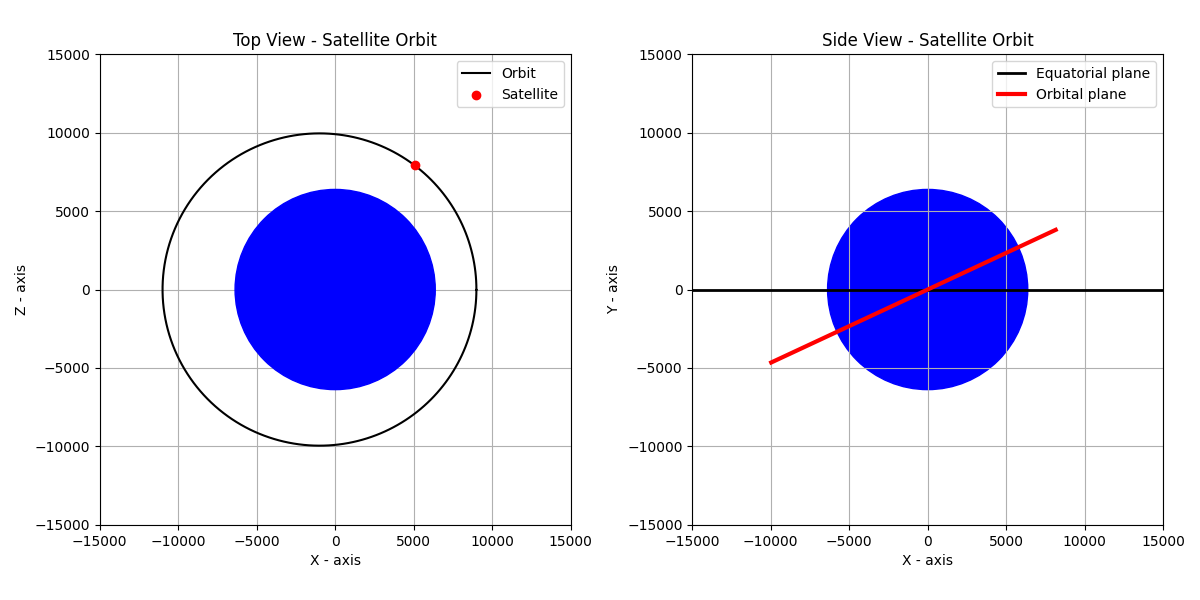
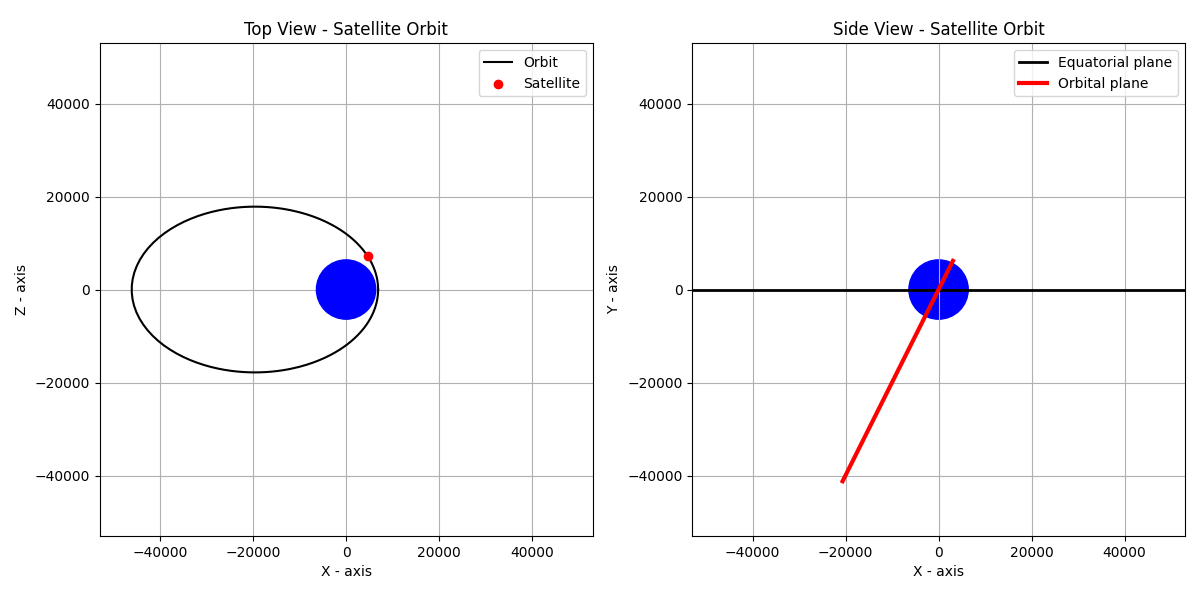
added simplified parameter and presets

diff --git a/main.py b/main.py
@@ -9,19 +9,69 @@ if os.path.exists("orbit_plot.png"):
     os.remove("orbit_plot.png")
 
 st.title('Orbit Visualizer')
+st.write("Visualize satellite orbits around Earth with dual-view plots and animations. Either enter custom parameters or select from presets to quickly generate the orbit plots.")
 
 #taking user input for semi major axis, eccentricity, True anomaly and inclination
-st.sidebar.header('Input Keplerian Parameters')
-semi_major_axis = st.sidebar.number_input('Semi Major Axis (in km)', min_value=7000, max_value=1000000, value=10000)
-eccentricity = st.sidebar.number_input('Eccentricity', min_value=0.0, max_value=1.0, value=0.1)
-true_anomaly = st.sidebar.number_input('True Anomaly (in radians)', min_value=0.0, max_value=6.28, value=1.0)
-inclination = st.sidebar.number_input('Inclination (in degrees)', min_value=0.0, max_value=360.0, value=25.0)
+
+mode = st.sidebar.toggle("Switch Paramter Type")
+
+# Default to Keplerian parameters
+if not mode:
+    st.sidebar.header('Input simplified Parameters')
+    apogee = float(st.sidebar.number_input('Apogee from sea level (in km)', min_value=0, max_value=1000000, value=500)) + 6378  # Adding Earth's radius
+    perigee = float(st.sidebar.number_input('Perigee from sea level (in km)', min_value=0, max_value=1000000, value=500)) + 6378  # Adding Earth's radius
+    inclination = float(st.sidebar.number_input('Inclination (in degrees)', min_value=0.0, max_value=360.0, value=25.0))
+    # Convert simplified parameters to Keplerian elements
+    semi_major_axis = (apogee + perigee) / 2
+    eccentricity = (apogee - perigee) / (apogee + perigee)
+    true_anomaly = 1  # Default value
+    inclination = float(inclination)
+else:
+    # Default: Keplerian parameters (shows by default or when button 'a' is clicked)
+    st.sidebar.header('Input Keplerian Parameters')
+    semi_major_axis = float(st.sidebar.number_input('Semi Major Axis (in km)', min_value=7000, max_value=1000000, value=10000))
+    eccentricity = float(st.sidebar.number_input('Eccentricity', min_value=0.0, max_value=1.0, value=0.1))
+    true_anomaly = float(st.sidebar.number_input('True Anomaly (in radians)', min_value=0.0, max_value=6.28, value=1.0))
+    inclination = float(st.sidebar.number_input('Inclination (in degrees)', min_value=0.0, max_value=360.0, value=25.0))
 
 
-semi_major_axis = float(semi_major_axis)
-eccentricity = float(eccentricity)
-true_anomaly = float(true_anomaly)
-inclination = float(inclination)
+preset = st.sidebar.selectbox("Presets", options=["None","ISS", "SSO", "GEO", "GSO", "Molniya", "Tundra", "MEO", "Moon"], index=0, key="view_option")
+
+if preset == "None":
+    pass
+elif preset == "ISS":
+    semi_major_axis = 6780  # km
+    eccentricity = 0.0007
+    inclination = 51.6  # degrees
+elif preset == "SSO":
+    semi_major_axis = 7078  # km
+    eccentricity = 0.0001
+    inclination = 98.7  # degrees
+elif preset == "GEO":
+    semi_major_axis = 42164  # km
+    eccentricity = 0.0001
+    inclination = 0.0  # degrees
+elif preset == "GSO":
+    semi_major_axis = 42164
+    eccentricity = 0.0001
+    inclination = 0.0
+elif preset == "Molniya":
+    semi_major_axis = 26500
+    eccentricity = 0.74
+    inclination = 63.4
+elif preset == "Tundra":
+    semi_major_axis = 42164
+    eccentricity = 0.1
+    inclination = 63.4
+elif preset == "MEO":
+    semi_major_axis = 20000
+    eccentricity = 0.1
+    inclination = 55.0
+elif preset == "Moon":
+    semi_major_axis = 384400
+    eccentricity = 0.0549
+    inclination = 5.145
+
 fig = op.plot_orbit(semi_major_axis, eccentricity, true_anomaly, inclination)
 
 #button to plot animated orbit
@@ -50,6 +100,7 @@ else:
     #Show static plot by default
     if os.path.exists("orbit_plot.png"):
         st.image("orbit_plot.png", caption='Static Orbit Plot')
+
 
 
 st.write("### Orbit Parameters")

diff --git a/README.md b/README.md
@@ -4,14 +4,34 @@ Python tool for visualizing satellite orbits around Earth with dual-view plots a
 
 🚀 **[Try the live web app here!](https://orbit-visualizer-cuiqjpnmqbgzducbrmjdfm.streamlit.app/)**
 
+## Screenshots
+
+### Static Visualization
+![Static Orbit Plot](Screenshots/Screenshot%202025-07-21%20004231.png)
+*Dual-view orbital visualization showing top and side perspectives*
+
+### Animated Visualization  
+![Animation Example](Screenshots/Screenshot%202025-07-21%20004620.png)
+*Real-time animated orbit with true anomaly counter*
+
+### Parameter Input Options
+![Parameter Interface](Screenshots/Screenshot%202025-07-21%20004648.png)
+*Toggle between Keplerian and simplified parameters*
+
+### Orbital Presets
+![Preset Options](Screenshots/Screenshot%202025-07-21%20004707.png)
+*Quick access to common orbital configurations*
+
 ## Features
 
-- Interactive orbital parameter input (semi-major axis, eccentricity, true anomaly, inclination)
+- **Dual Parameter Input Modes**:
+  - Keplerian parameters (semi-major axis, eccentricity, true anomaly, inclination)
+  - Simplified parameters (apogee/perigee heights from sea level)
+- **Orbital Presets**: ISS, Sun-Synchronous, GEO, Molniya, Tundra, MEO, Moon orbit
 - **Static plots**: Top view orbital path and side view inclination visualization
-- **Animated GIF**: Real-time satellite motion with true anomaly counter
-- Real-time satellite position display with orbital parameters
-- Earth representation with realistic radius (6378 km)
-- Apogee and perigee distance calculations
+- **Animated GIF**: Real-time satellite motion with true anomaly and distance display
+- **Real-time calculations**: Apogee and perigee distances
+- **Earth representation**: Realistic radius (6378 km) and visual scaling
 
 ## Installation
 
@@ -21,7 +41,7 @@ pip install numpy matplotlib streamlit
 
 ## Usage
 
-**Web App**: [Live Streamlit app](https://orbit-visualizer-gznudmagi3xloqsz6boyfp.streamlit.app/) - No installation required!
+**Web App**: [Live Streamlit app](https://orbit-visualizer-cuiqjpnmqbgzducbrmjdfm.streamlit.app/) - No installation required!
 
 **Python Module**:
 ```python
@@ -29,6 +49,47 @@ from Orbit_plotter import plot_orbit, plot_animated_orbit
 plot_orbit(a=7000, e=0.1, v=1.5, i=45)
 plot_animated_orbit(a=7000, e=0.1, i=45)  # Creates GIF animation
 ```
+
+**Jupyter Notebook**: Run `main.ipynb` cells sequentially
+
+## Parameters
+
+### Keplerian Elements (Advanced)
+- **a**: Semi-major axis (km) - Size of orbit
+- **e**: Eccentricity (0 ≤ e < 1) - Shape of orbit (0=circular, >0=elliptical)
+- **v**: True anomaly (radians) - Satellite position in orbit
+- **i**: Inclination (degrees) - Orbital tilt relative to equator
+
+### Simplified Parameters (Beginner-friendly)
+- **Apogee**: Highest altitude above sea level (km)
+- **Perigee**: Lowest altitude above sea level (km)
+- **Inclination**: Orbital tilt relative to equator (degrees)
+
+## Orbital Presets
+
+| Preset | Description | Altitude | Inclination |
+|--------|-------------|----------|-------------|
+| **ISS** | International Space Station | ~400 km | 51.6° |
+| **SSO** | Sun-Synchronous Orbit | ~700 km | 98.7° |
+| **GEO** | Geostationary Earth Orbit | 35,786 km | 0° |
+| **Molniya** | Highly elliptical orbit | 500-39,000 km | 63.4° |
+| **MEO** | Medium Earth Orbit | ~20,000 km | 55° |
+| **Moon** | Lunar orbit | 384,400 km | 5.1° |
+
+## Features in Detail
+
+### Static Visualization
+- Dual-view plots (top and side perspectives)
+- Current satellite position based on true anomaly
+- Orbital and equatorial plane visualization
+- Automatic plot scaling based on orbit size
+
+### Animated Visualization  
+- Full orbital motion GIF generation
+- Real-time true anomaly display in animation
+- Distance from Earth center tracking
+- Synchronized timing with orbital mechanics
+- Text overlay showing orbital parameters
 
 **Jupyter Notebook**: Run `main.ipynb` cells sequentially
 
